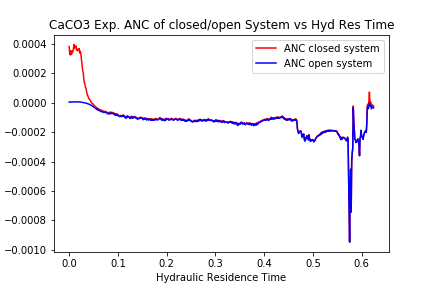
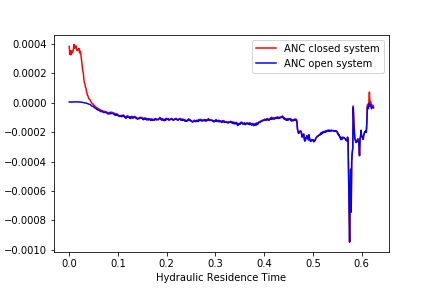
Updated 2/28 after Office Hours

Changed region(s): [[0.0903, 0.0625, 0.9028, 0.125]]

diff --git a/Acid_Rain/LabReport.md b/Acid_Rain/LabReport.md
@@ -1,0 +1,253 @@
+Below is the code for Lab's 2 and 3 data analysis.
+```python
+#Import python packages.
+from aguaclara.core.units import unit_registry as u
+u.define('equivalent = mole = eq')
+import numpy as np
+import matplotlib.pyplot as plt
+import pandas as pd
+from scipy import stats
+import aguaclara.research.environmental_processes_analysis as epa
+from scipy import optimize
+import math
+
+#$$$$$$$$$$$$$$$$$$$$$Data Analysis for Lab 2 $$$$$$$$$$$$$$$$$$$$
+
+#Given Values
+k1 = 10**-6.3
+k2 = 10**-10.3
+kH = 10**-1.5 *u.mol/u.L/u.atmosphere
+PCo2 = 10 **-3.5 *u.atmosphere
+kW = 10**-14
+
+#Section 1: This section contains the data analysis for the lake with NaHCO3
+#Part 1: Plot measured pH of the lake versus dimensionless hydraulic residence time (t/θ).
+
+#Calculate residence time
+mass_tankwater = 3766 * u.g
+density_water = 0.997 * u.kg/u.L
+vol_tankwater = (mass_tankwater/density_water).to(u.L)
+flow_rate = (101*u.mL/(25*u.s)).to(u.L/u.s)
+theta = vol_tankwater/flow_rate
+
+# import pH data from spreadsheet located on GitHub
+data_file_path_1 = "https://raw.githubusercontent.com/klr227/EnvELab/master/Acid_Rain/acid_rain_lab1.tsv"
+#df = pd.read_csv(data_file_path,delimiter='\t')
+
+# Use the epa.notes function to find what you've commented in the data file.
+lakepHnotes = epa.notes(data_file_path_1)
+# set the start index of the data file to one past the note indicating the start.
+start_1 = 240
+
+# Extract the pH data starting from where pump starts comment is located. pH data is in column 1
+lakepH = epa.column_of_data(data_file_path_1,start_1,1)
+# Extract the corresponding time data and convert to seconds
+time = epa.column_of_time(data_file_path_1,start_1).to(u.s)
+
+# Calculate dimensionless hydraulic residence time
+res = time/theta
+
+#Now plot the graph
+fig, ax = plt.subplots()
+ax.plot(res,lakepH,'r')
+plt.xlabel('Hydraulic Residence Time')
+plt.ylabel('pH')
+ax.legend(['pH'])
+plt.savefig('/Users/kenrivero/Documents/EnvELab/Acid_Rain/pHgraph')
+plt.show()
+
+
+# Part 2: CMFR graph
+pHin = 3
+C_initial_open = 50*(10**-6) * u.eq/u.L
+C_influent = (-10)**-pHin* u.eq/u.L
+Output_conc_CMFR = epa.CMFR(res, C_initial_open, C_influent)
+
+fig, ax = plt.subplots()
+ax.plot(res,Output_conc_CMFR,'r')
+ax.legend(['Conservative ANC'])
+plt.xlabel('Hydraulic Residence Time')
+plt.ylabel('ANC')
+ax.legend(['Conservative ANC'])
+plt.savefig('/Users/kenrivero/Documents/EnvELab/Acid_Rain/Output_conc_CMFR')
+plt.show()
+
+
+# Part 3: ANC in a closed system
+#Calculate total Carbonate concentration in system in mol/L
+massNaHCO3 = 0.625 *u.g
+MmNaHCO3 = 84.007 * u.g/u.mol
+Total_Carbonates_conc = massNaHCO3/MmNaHCO3/vol_tankwater
+ANC_out_closed = epa.ANC_closed(lakepH,Total_Carbonates_conc)
+
+
+#Part 4: ANC in open system
+ANC_out_open = epa.ANC_open(lakepH)
+fig, ax = plt.subplots()
+plt.plot(res,ANC_out_closed,'r')
+plt.plot(res,ANC_out_open,'b')
+plt.xlabel('Hydraulic Residence Time')
+plt.ylabel('ANC')
+ax.legend(['ANC closed system','ANC open system','Measured ANC'])
+plt.savefig('/Users/kenrivero/Documents/EnvELab/Acid_Rain/ANC_openclosed')
+plt.show()
+
+
+#Section 2: This section contains information for the CaCO3 solution
+# import pH data from spreadsheet
+data_file_path_2 = "https://raw.githubusercontent.com/klr227/EnvELab/master/Acid_Rain/acid_rain_lab1_pt2.tsv"
+#df = pd.read_csv(data_file_path,delimiter='\t')
+
+# Use the epa.notes function to find what you've commented in the data file.
+lakepHnotes_2 = epa.notes(data_file_path_2)
+# set the start index of the data file to one past the note indicating the start.
+start_2 = 40
+
+# Extract the pH data starting from where pump starts comment is located. pH data is in column 1
+lakepH_2 = epa.column_of_data(data_file_path_2,start_2,1)
+# Extract the corresponding time data and convert to seconds
+time_2 = epa.column_of_time(data_file_path_2,start_2).to(u.s)
+
+# Calculate dimensionless hydraulic residence time
+res_2 = time_2/theta
+
+#Now plot the graph
+fig, ax = plt.subplots()
+ax.plot(res_2,lakepH_2,'r')
+plt.xlabel('Hydraulic Residence Time')
+plt.ylabel('pH')
+ax.legend(['pH'])
+plt.savefig('/Users/kenrivero/Documents/EnvELab/Acid_Rain/pHgraph_2')
+plt.show()
+
+
+# Part 2: CMFR graph
+pHin = 3
+C_initial_open_2 = 50*(10**-6) * u.eq/u.L
+C_influent = (-10)**-pHin* u.eq/u.L
+Output_conc_CMFR_2 = epa.CMFR(res_2, C_initial_open_2, C_influent)
+
+fig, ax = plt.subplots()
+ax.plot(res_2,Output_conc_CMFR_2,'r')
+ax.legend(['Conservative ANC'])
+plt.xlabel('Hydraulic Residence Time')
+plt.ylabel('ANC')
+ax.legend(['Conservative ANC'])
+plt.savefig('/Users/kenrivero/Documents/EnvELab/Acid_Rain/Output_conc_CMFR_2')
+plt.show()
+
+
+# Part 3: ANC in a closed system
+#Calculate total Carbonate concentration in system in mol/L
+massCaCO3 = 0.371 *u.g
+MmCaCO3 = 100.0869 * u.g/u.mol
+Total_Carbonates_conc_2 = massCaCO3/MmCaCO3/vol_tankwater
+ANC_out_closed_2 = epa.ANC_closed(lakepH_2,Total_Carbonates_conc_2)
+
+
+#Part 4: ANC in open system
+ANC_out_open_2 = epa.ANC_open(lakepH_2)
+
+fig, ax = plt.subplots()
+plt.plot(res_2,ANC_out_closed_2,'r')
+plt.plot(res_2,ANC_out_open_2,'b')
+plt.xlabel('Hydraulic Residence Time')
+plt.ylabel('ANC')
+ax.legend(['ANC closed system','ANC open system'])
+plt.savefig('/Users/kenrivero/Documents/EnvELab/Acid_Rain/ANC_openclosed_2')
+plt.show()
+
+#$$$$$$$$$$$$$$$$$$$$$ Data Analysis for Lab 3 $$$$$$$$$$$$$$$$$$$$
+#Import datafile from GitHub
+data_file_path =('https://raw.githubusercontent.com/klr227/EnvELab/master/Acid_Rain/lab3_0minsample.tsv')
+df = pd.read_csv(data_file_path,delimiter='\t')
+
+# The column headers can be access by using the list command
+#list(df)
+#columns = df.columns
+#print(columns)
+
+#Part 1 ***************************************************************
+#Assign variables to the data in the dataframe (Titrant volume (mL), pH, sample volume (mL), titrant normality, equivalent volume (mL), ANC (eq/L), R^2). F1 is assigned later in Part 2.
+titrant_vol = df.iloc[:,0].values * u.mL
+pH = df.iloc[:,1].values
+Sample_vol = df.iloc[0,3] * u.mL
+Titrant_norm = df.iloc[0,4]
+equivalent_vol = df.iloc[0,5]
+ANC = df.iloc[0,6] * u.eq/u.L
+R2 = df.iloc[0,7]
+
+#Plot pH as a function of titrant volume. Label the equivalent volume of titrant. Label the 2 regions of the graph where pH changes slowly with the dominant reaction that is occurring.
+fig, ax = plt.subplots()
+ax.plot(titrant_vol,pH,'r')
+plt.xlabel('Titrant volume (mL)')
+plt.ylabel('pH')
+ax.legend(['pH'])
+ax.grid(True)
+ax.annotate('First Reaction', xy=(.35, 7), xytext=(1, 7.5),
+            arrowprops=dict(facecolor='black', shrink=1))
+ax.annotate('Second Reaction', xy=(1.75, 4.5), xytext=(.25, 4),
+            arrowprops=dict(facecolor='black', shrink=0.05))
+plt.savefig('/Users/kenrivero/Documents/EnvELab/Acid_Rain/pHvsTitvol')
+plt.show()
+
+
+#Part 2 ****************************************************************
+#Assign variables to the data in the dataframe (F1 and titrant volume). F1 and titrant_vol_F1: Includes points that are not needed for the linear regression
+F1 = df.iloc[0:7,2].values
+titrant_vol_F1 = df.iloc[0:7,0].values * u.mL
+#Gran_point and titrant_vol_GP: Includes the points that ARE needed for the linear regression.
+Gran_point = df.iloc[8:,2].values
+titrant_vol_GP = df.iloc[8:,0].values * u.mL
+
+# Use the stats package to do the linear regression.
+slope, intercept, r_value, p_value, std_err = stats.linregress(titrant_vol_GP,Gran_point)
+# Attach correct units to slope which would be the units of Gran Point (dimensionless) divided by units of titrant_vol (mL)
+slope = slope *  1/u.mL
+#Create a figure and plot the data and the line from the linear regression.
+fig, ax = plt.subplots()
+# plot the data not needed for linear regression in red circles and the data NEEDED for linear regression in blue circles.
+ax.plot(titrant_vol_F1, F1, 'ro',)
+ax.plot(titrant_vol_GP, Gran_point, 'bo',)
+
+#plot the linear regression as a black line
+ax.plot(titrant_vol_GP, (slope * titrant_vol_GP) + intercept, 'k-', )
+#Define the x-axis
+plt.xlabel('Titrant volume (mL)')
+# Add axis labels using the column labels from the dataframe
+ax.legend(['Non-Linear Regression Points', 'Linear regression Points', 'Linear Regression Line'])
+ax.grid(True)
+
+# Here I save the file to my local hard drive.
+plt.savefig('/Users/kenrivero/Documents/EnvELab/Acid_Rain/Gran_Plot')
+plt.show()
+
+#Calculate equivalent volume using slope from stats package and ANC from ProCoDA. This calculation is done based on the lab manual that states that if F1 is plotted as a function of Vt the result is a straight line with slope = N_t/Vs. Using equation 41, the equivalent volume can be calculated by ANC divided by slope. Our units will be off because ANC is in units of eq/L and slope is in units of [1/mL].
+
+calc_EV = ANC / slope
+calc_EV.to(u.eq)*1000
+
+#Part 3 **************************************************************
+
+ANC_0 = 0.001826
+ANC_5 = 0.000922 * u.eq/u.L
+ANC_10 = 0.000276 * u.eq/u.L
+ANC_15 = -0.00008 * u.eq/u.L
+
+
+time_array = [0,5,10,15] * u.min
+time_array = (time_array).to(u.s)
+hydraulic_res_time = time_array/theta
+
+fig, ax = plt.subplots()
+plt.plot(res,ANC_out_closed,'r')
+plt.plot(res,ANC_out_open,'b')
+plt.scatter(0,ANC_0,color = 'green')
+plt.scatter(hydraulic_res_time[1],ANC_5,color = 'green')
+plt.scatter(hydraulic_res_time[2],ANC_10,color = 'green')
+plt.scatter(hydraulic_res_time[3],ANC_15,color = 'green')
+plt.xlabel('Hydraulic Residence Time')
+plt.ylabel('ANC')
+ax.legend(['ANC closed system','ANC open system','Measured ANC'])
+plt.savefig('/Users/kenrivero/Documents/EnvELab/Acid_Rain/ANC_openclosedmeasuredpoints')
+plt.show()

diff --git a/Acid_Rain/Lab2_DataAnalysis_KenCatie_7.md b/Acid_Rain/Lab2_DataAnalysis_KenCatie_7.md
@@ -20,6 +20,7 @@ import aguaclara.research.environmental_processes_analysis as epa
 from scipy import optimize
 import math
 
+#Data Analysis for Lab 2 $$$$$$$$$$$$$$$$$$$$$$$$$$$$$$$$$$$$$$$$$$$$$$
 #Given Values
 k1 = 10**-6.3
 k2 = 10**-10.3
@@ -60,7 +61,6 @@ fig, ax = plt.subplots()
 ax.plot(res,lakepH,'r')
 plt.xlabel('Hydraulic Residence Time')
 plt.ylabel('pH')
-plt.title('NaHCO3 pH vs. Dimensionless Hyd. Residence Time')
 ax.legend(['pH'])
 plt.savefig('/Users/kenrivero/Documents/EnvELab/Acid_Rain/pHgraph')
 plt.show()
@@ -93,16 +93,14 @@ ANC_out_closed = epa.ANC_closed(lakepH,Total_Carbonates_conc)
 
 #Part 4: ANC in open system
 ANC_out_open = epa.ANC_open(lakepH)
+
 fig, ax = plt.subplots()
 plt.plot(res,ANC_out_closed,'r')
-plt.xlabel('Hydraulic Residence Time')
-plt.ylabel('ANC')
 plt.plot(res,ANC_out_open,'b')
 plt.xlabel('Hydraulic Residence Time')
 plt.ylabel('ANC')
-plt.title('NaHCO3 Exp. ANC of closed/open System vs Hyd. Res. Time')
-ax.legend(['ANC closed system','ANC open system'])
-plt.savefig('/Users/kenrivero/Documents/EnvELab/Acid_Rain/ANC_openclosed')
+ax.legend(['ANC closed system','ANC open system','Measured ANC'])
+plt.savefig('/Users/kenrivero/Documents/EnvELab/Acid_Rain/ANC_openclosedmeasured')
 plt.show()
 
 
@@ -162,6 +160,7 @@ ANC_out_closed_2 = epa.ANC_closed(lakepH_2,Total_Carbonates_conc_2)
 
 #Part 4: ANC in open system
 ANC_out_open_2 = epa.ANC_open(lakepH_2)
+
 fig, ax = plt.subplots()
 plt.plot(res_2,ANC_out_closed_2,'r')
 plt.xlabel('Hydraulic Residence Time')

diff --git a/Acid_Rain/Lab3_Data_Analysis_KenCatie_7.md b/Acid_Rain/Lab3_Data_Analysis_KenCatie_7.md
@@ -82,3 +82,17 @@ plt.show()
 
 calc_EV = ANC / slope
 calc_EV.to(u.eq)*1000
+
+#Part 3 **************************************************************
+
+ANC_0 = 0.001826
+ANC_5 = 0.000922 * u.eq/u.L
+ANC_10 = 0.000276 * u.eq/u.L
+ANC_15 = -0.00008 * u.eq/u.L
+
+ANC_array = [ANC_0,ANC_5,ANC_10,ANC_15]
+
+time_array = [0,5,10,15] * u.min
+time_array = (time_array).to(u.s)
+time_array
+hydraulic_res_time = time_array/theta
